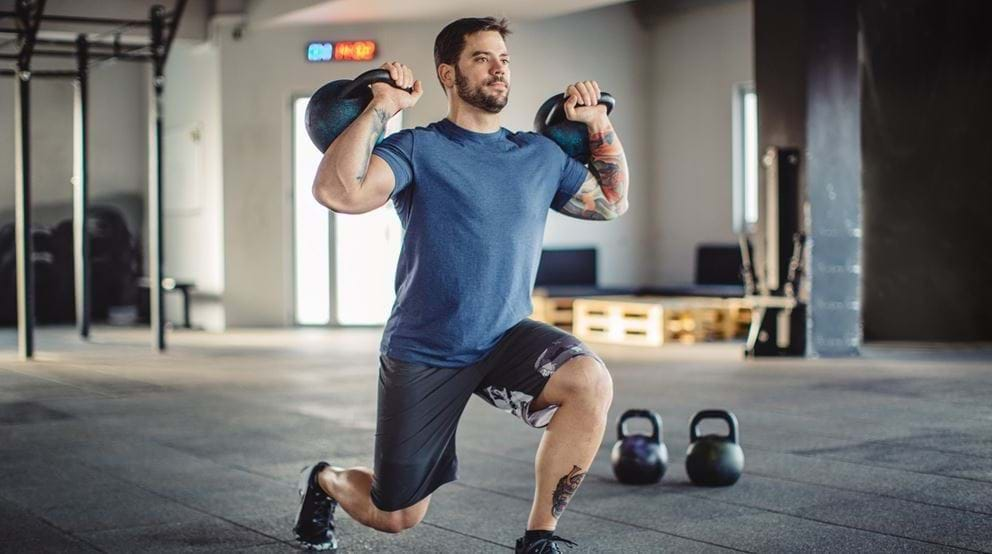
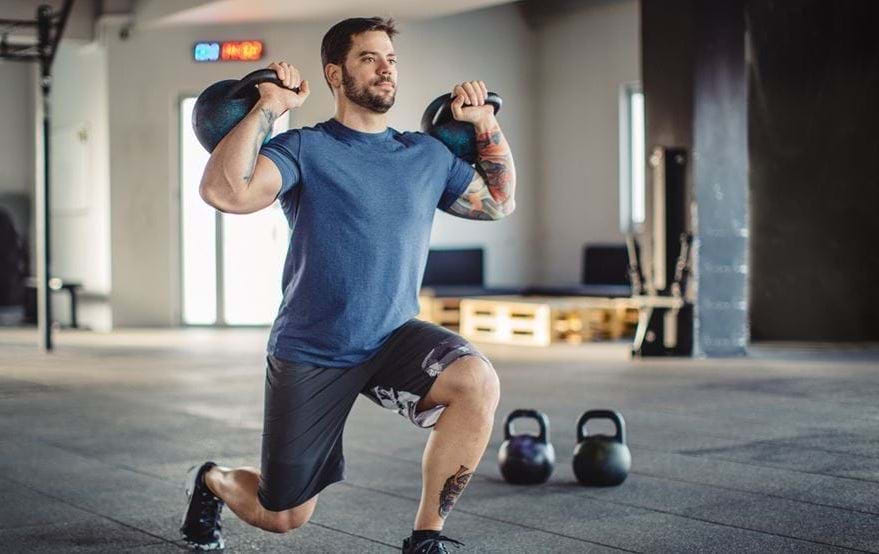
replacing the imgs

diff --git a/Frontend/index.html b/Frontend/index.html
@@ -181,7 +181,7 @@
       </div>
       <div class="classes-grid">
         <article class="class-card reveal delay-1">
-          <div class="class-bg" style="background-image: linear-gradient(135deg, rgba(15, 10, 30, 0.8), rgba(26, 10, 46, 0.8)), url('assets/images/classes/hiit.jpg');">
+            <div class="class-bg" style="background-image: linear-gradient(135deg, rgba(15, 10, 30, 0.40), rgba(26, 10, 46, 0.50)), url('assets/images/classes/hiit.jpg');">
             <i class="fa-solid fa-bolt class-icon" aria-hidden="true"></i>
           </div>
           <div class="class-gradient"></div>
@@ -199,7 +199,7 @@
         </article>
 
         <article class="class-card reveal delay-2">
-          <div class="class-bg" style="background-image: linear-gradient(135deg, rgba(10, 10, 18, 0.8), rgba(17, 10, 34, 0.8)), url('assets/images/classes/power-lift.jpg');">
+          <div class="class-bg" style="background-image: linear-gradient(135deg, rgba(10, 10, 18, 0), rgba(17, 10, 34, 0.50)), url('assets/images/classes/power-lift.jpg');">
             <i class="fa-solid fa-weight-hanging class-icon" aria-hidden="true"></i>
           </div>
           <div class="class-gradient"></div>
@@ -217,7 +217,7 @@
         </article>
 
         <article class="class-card reveal delay-3">
-          <div class="class-bg" style="background-image: linear-gradient(135deg, rgba(13, 10, 26, 0.8), rgba(22, 10, 38, 0.8)), url('assets/images/classes/zen-yoga.jpg');">
+          <div class="class-bg" style="background-image: linear-gradient(135deg, rgba(13, 10, 26, 0.30), rgba(22, 10, 38, 0.50)), url('assets/images/classes/zen-yoga.jpg');">
             <i class="fa-solid fa-spa class-icon" aria-hidden="true"></i>
           </div>
           <div class="class-gradient"></div>
